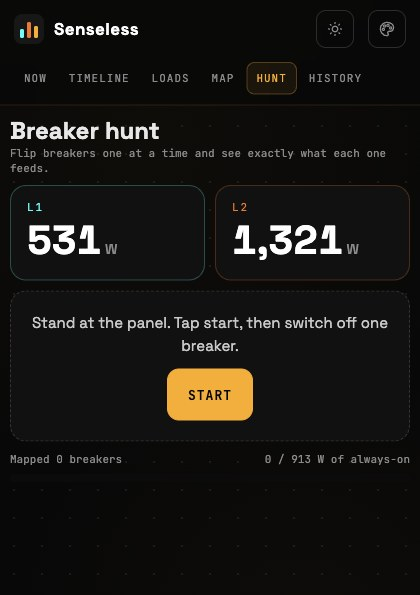
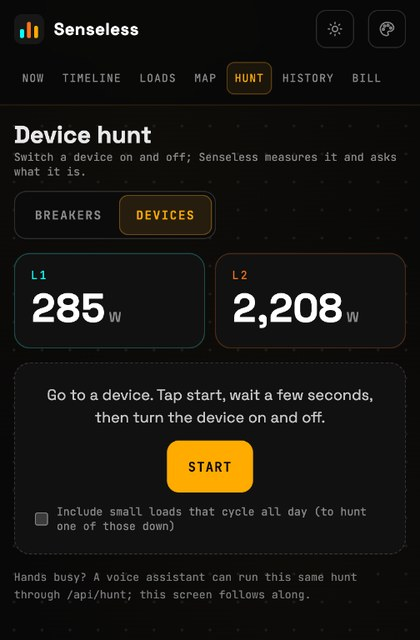
README: Bill screenshot, Device Hunt phone shot (#17)
Claude-Session: https://claude.ai/code/session_01EKF1WgjTu2rvhk3v7fLiJ8

diff --git a/README.md b/README.md
@@ -40,9 +40,9 @@ Two modes, one toggle:
 
 The hunt runs on the server, so a voice assistant can drive the same session through the API (`/api/hunt`, with a speakable `prompt` at every step) while the phone screen follows along. See [the API notes](notes/senseless-api.md#hunt-sessions-breaker-and-device).
 
-<img src="docs/screenshots/hunt-phone.jpg" alt="Hunt on a phone" width="360">
+<img src="docs/screenshots/hunt-phone.jpg" alt="Device Hunt on a phone" width="360">
 
-*Live leg readings and a guided baseline → breaker → save flow.*
+*Breakers or Devices: live leg readings and a guided measure → name flow.*
 
 ### Map
 
@@ -63,6 +63,9 @@ Browse days, months, and years from Sense's cloud history, cached locally. Drill
 ### Bill
 
 Sense prices every kWh at one flat rate, which in Maine leaves out the delivery half of the bill. The Bill view prices your usage the way the utility bills it: a fixed monthly charge, delivery per kWh (flat or time-of-use), supply per kWh, and sales tax above the exempt amount. It projects the current billing cycle from Sense's daily history, shows the split, and says what each extra kWh costs. It also prices the same usage on every rate plan, so you can see whether time-of-use or another rate would be cheaper for how you actually use power. Enter real bills to check the estimate, and optionally scale projections to match them.
+
+![Bill view: projected bill split into fixed, delivery, supply and tax, daily use, and rate plans compared](docs/screenshots/bill.jpg)
+*This cycle priced by the tariff, next to what each rate plan would cost for the same usage.*
 
 Central Maine Power's published residential tariffs (Rate A, time-of-use, Electric Technology) and the Maine Standard Offer supply price are built in, with their sources and effective dates; a custom plan covers other utilities. The Now view's cost-so-far and the always-on $/year use the same tariff.
 
